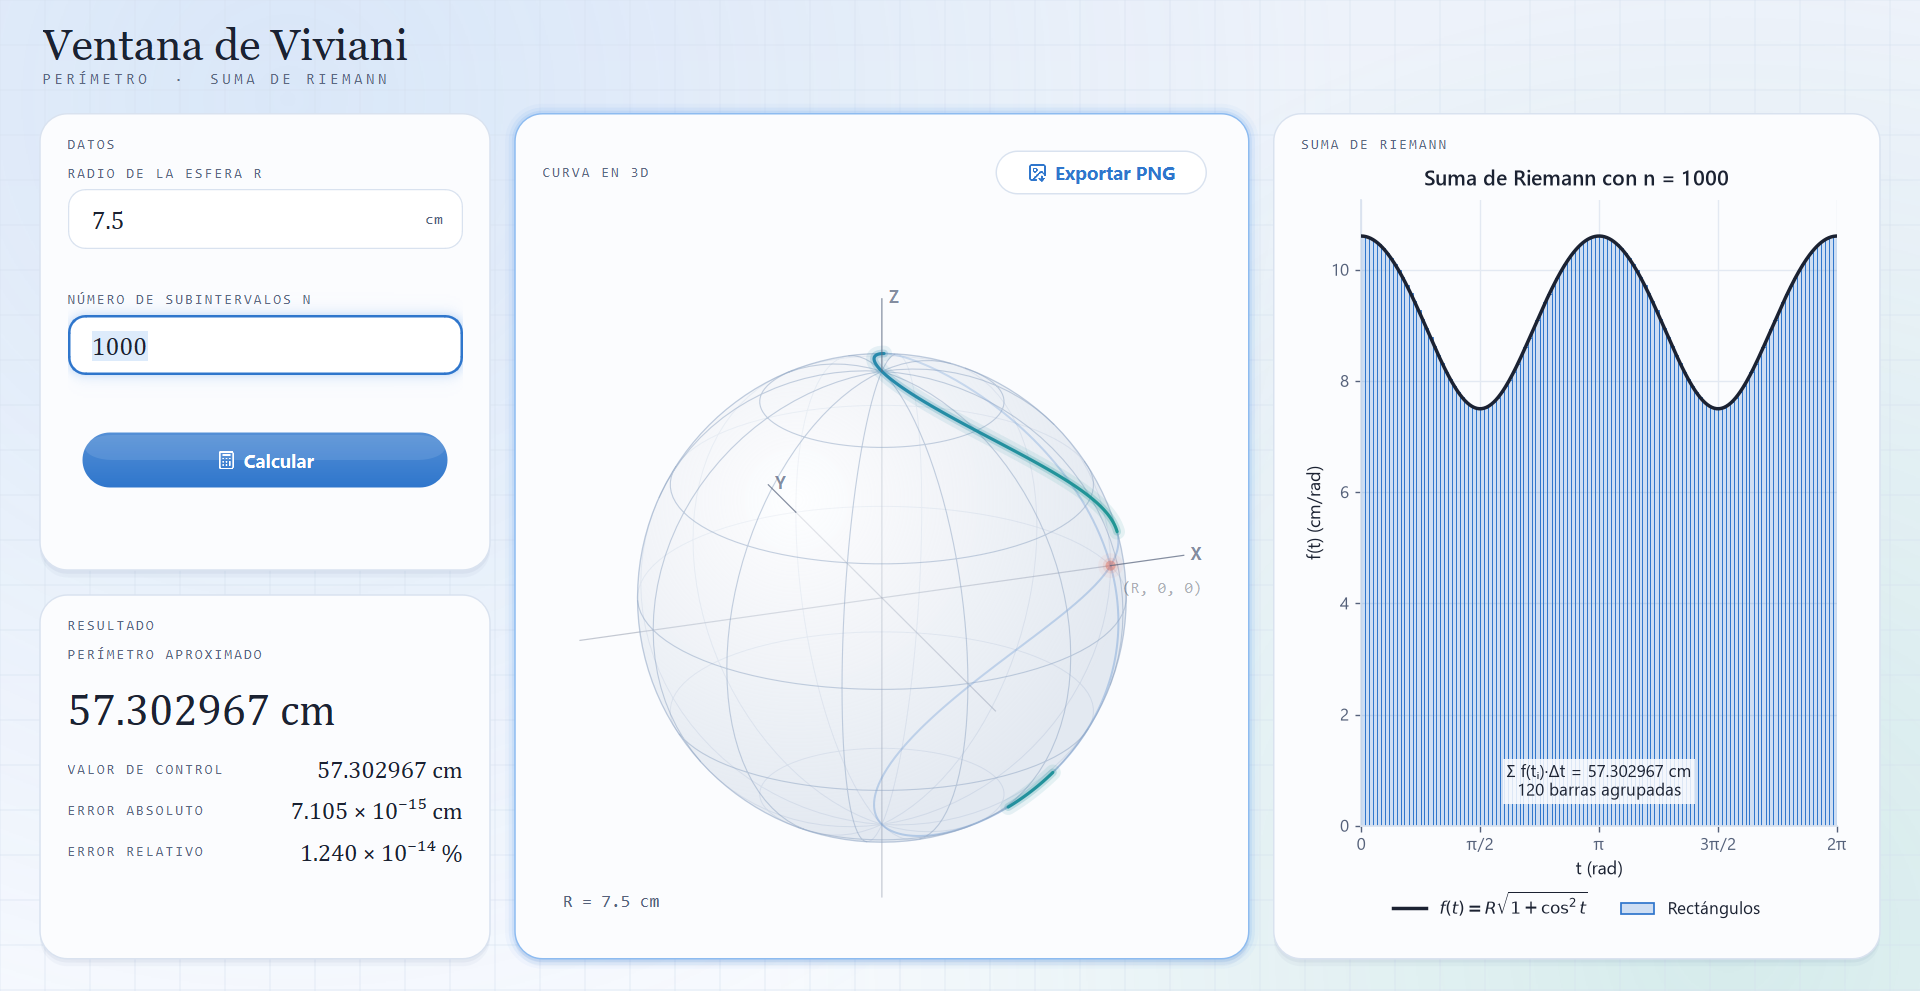
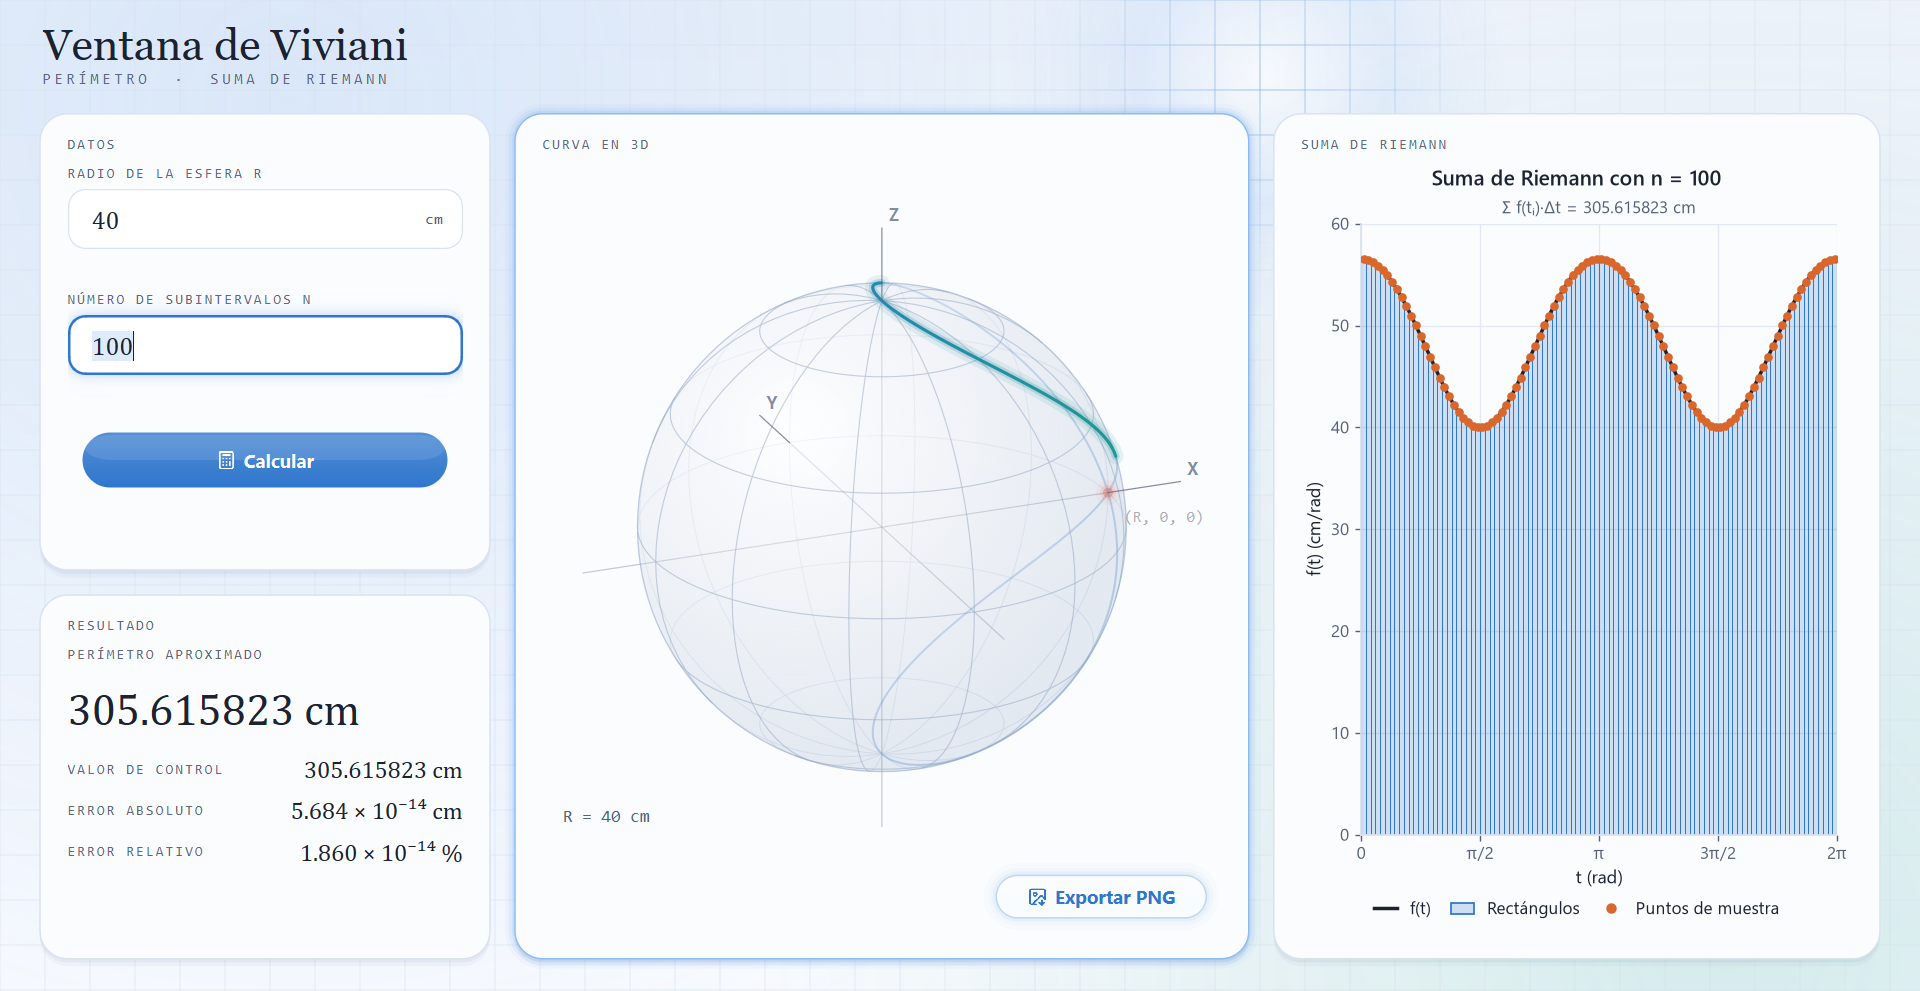
Alinea títulos de tarjetas, completa la leyenda de Riemann y agrega luz que sigue al cursor
- Exportar PNG pasa al pie de la tarjeta 3D
- La suma va como subtítulo de Riemann y la leyenda es más corta
- El fondo se ilumina alrededor del cursor (solo se repinta ese círculo)

diff --git a/src/viviani/ui/componentes.py b/src/viviani/ui/componentes.py
@@ -83,11 +83,30 @@ class FondoVentana(QWidget):
     guarda como imagen, así redibujarlo no cuesta casi nada."""
 
     LADO_REJILLA = 36
+    RADIO_LUZ = 200  # px: tamaño del círculo de luz que sigue al cursor
 
     def __init__(self, colores):
         super().__init__()
         self.colores = colores
         self._imagen = None
+        self._luz = None  # posición del cursor (None si está fuera)
+
+    def mover_luz(self, posicion):
+        """Mueve la luz al punto `posicion` (coordenadas de este widget).
+
+        Solo se repintan dos círculos: donde estaba la luz y donde está
+        ahora. Así el costo no depende del tamaño de la ventana.
+        """
+        if posicion is not None and not self.rect().contains(posicion):
+            posicion = None
+        anterior = self._luz
+        if posicion == anterior:
+            return
+        self._luz = posicion
+        for punto in (anterior, posicion):
+            if punto is not None:
+                r = self.RADIO_LUZ
+                self.update(punto.x() - r, punto.y() - r, 2 * r, 2 * r)
 
     def resizeEvent(self, evento):
         self._imagen = None  # cambió el tamaño: hay que volver a dibujarlo
@@ -98,6 +117,36 @@ class FondoVentana(QWidget):
             self._imagen = self._dibujar_fondo()
         pintor = QPainter(self)
         pintor.drawPixmap(evento.rect(), self._imagen, evento.rect())
+        if self._luz is not None:
+            self._dibujar_luz(pintor)
+
+    def _dibujar_luz(self, pintor):
+        """Un resplandor suave y la rejilla más marcada cerca del cursor."""
+        c = self.colores
+        centro = QPointF(self._luz)
+        r = self.RADIO_LUZ
+        pintor.setRenderHint(QPainter.RenderHint.Antialiasing)
+
+        resplandor = QRadialGradient(centro, r)
+        resplandor.setColorAt(0, con_alfa("#FFFFFF", 0.55))
+        resplandor.setColorAt(0.5, con_alfa(c["brillo"], 0.10))
+        resplandor.setColorAt(1, con_alfa(c["brillo"], 0.0))
+        pintor.setPen(Qt.PenStyle.NoPen)
+        pintor.setBrush(resplandor)
+        pintor.drawEllipse(centro, r, r)
+
+        # Las líneas de la rejilla se encienden: el color de la pluma es un
+        # degradado que se apaga con la distancia al cursor
+        lineas = QRadialGradient(centro, r * 0.8)
+        lineas.setColorAt(0, con_alfa(c["brillo"], 0.55))
+        lineas.setColorAt(1, con_alfa(c["brillo"], 0.0))
+        pintor.setPen(QPen(lineas, 1))
+        lado = self.LADO_REJILLA
+        x0, y0 = int(centro.x() - r), int(centro.y() - r)
+        for x in range(max(0, x0 - x0 % lado), int(centro.x() + r), lado):
+            pintor.drawLine(x, y0, x, y0 + 2 * r)
+        for y in range(max(0, y0 - y0 % lado), int(centro.y() + r), lado):
+            pintor.drawLine(x0, y, x0 + 2 * r, y)
 
     def _dibujar_fondo(self):
         c = self.colores

diff --git a/src/viviani/graficas/riemann.py b/src/viviani/graficas/riemann.py
@@ -26,7 +26,6 @@ DURACION_TOTAL_MS = 1500  # todos los rectángulos
 DURACION_BARRA_MS = 250  # lo que tarda en crecer cada rectángulo
 DURACION_FUNDIDO_MS = 150  # con "reducir movimiento"
 ALFA_RELLENO = 0.22
-FUNCION_TEXTO = r"$f(t) = R\sqrt{1 + \cos^2 t}$"
 
 
 def funcion(t, radio):
@@ -200,26 +199,9 @@ class GraficaRiemann(LienzoBase):
         if self.resultado.agrupado:
             # Con n > 120 cada barra agrupa varios subintervalos (ver calculo.py)
             barras = len(self.resultado.barras_altura)
-            texto += "\n" + f"{barras} barras agrupadas"
-        # Abajo al centro, dentro de los rectángulos: ahí nunca llega la curva
-        eje.text(
-            0.5,
-            0.04,
-            texto,
-            transform=eje.transAxes,
-            ha="center",
-            va="bottom",
-            multialignment="center",
-            fontsize=estilo.leyenda,
-            color=colores["texto"],
-            zorder=5,
-            bbox={
-                "facecolor": colores["superficie"],
-                "edgecolor": "none",
-                "alpha": 0.85,
-                "pad": 2,
-            },
-        )
+            texto += f"  ·  {barras} barras agrupadas"
+        # Subtítulo, debajo del título: así no tapa los rectángulos
+        eje.set_title(texto, fontsize=estilo.leyenda, color=colores["texto_sec"])
 
     def _poner_leyenda(self, fig, colores, estilo, con_puntos):
         azul = colores["serie_azul"]
@@ -227,7 +209,7 @@ class GraficaRiemann(LienzoBase):
             Line2D([], [], color=colores["texto"], linewidth=2 * estilo.lineas),
             Patch(facecolor=to_rgba(azul, ALFA_RELLENO), edgecolor=azul),
         ]
-        rotulos = [FUNCION_TEXTO, "Rectángulos"]
+        rotulos = ["f(t)", "Rectángulos"]
         if con_puntos:
             elementos.append(
                 Line2D(
@@ -247,5 +229,7 @@ class GraficaRiemann(LienzoBase):
             loc="outside lower center",
             ncols=len(elementos),
             frameon=False,
+            columnspacing=1.2,
+            handlelength=1.4,
         )
         poner_leyenda(leyenda, colores)

diff --git a/src/viviani/ui/ventana.py b/src/viviani/ui/ventana.py
@@ -166,8 +166,13 @@ class VentanaPrincipal(QMainWindow):
             self.colores, "Exportar PNG", "image-down", variante="secundario"
         )
         self.boton_exportar.setToolTip("Guardar la curva como imagen PNG (Ctrl+S)")
-        tarjeta.cabecera.addWidget(self.boton_exportar)
         tarjeta.contenido.addWidget(self.grafica_3d, 1)
+        # El botón va abajo: así el título queda a la misma altura que el de
+        # la tarjeta de Riemann
+        pie = QHBoxLayout()
+        pie.addStretch(1)
+        pie.addWidget(self.boton_exportar)
+        tarjeta.contenido.addLayout(pie)
         return tarjeta
 
     def _crear_tarjeta_riemann(self):
@@ -273,9 +278,12 @@ class VentanaPrincipal(QMainWindow):
             self._saltar_animaciones()
 
     def _revisar_cursor(self):
+        fondo = self.centralWidget()
         if not self.isActiveWindow():
+            fondo.mover_luz(None)
             return
         cursor = QCursor.pos()
+        fondo.mover_luz(fondo.mapFromGlobal(cursor))
         for boton in self._botones:
             boton.acercar(cursor)
 

diff --git a/src/viviani/graficas/curva3d.py b/src/viviani/graficas/curva3d.py
@@ -302,7 +302,7 @@ class GraficaCurva3D(QWidget):
         texto.setAlphaF(opacidad)
         pintor.setPen(texto)
         pintor.setFont(self._fuente(FAMILIAS_MONO, 0.024 * lado))
-        pintor.drawText(punto + QPointF(10 * grosor, 24 * grosor), "(R, 0, 0)")
+        pintor.drawText(punto + QPointF(14 * grosor, 26 * grosor), "(R, 0, 0)")
 
     def _pintar_ejes(self, pintor, a_pantalla, colores, grosor, lado, delante):
         """Ejes X, Y, Z. Primero la parte de adentro (bajo la esfera), al
@@ -320,7 +320,7 @@ class GraficaCurva3D(QWidget):
             pintor.drawLine(QPointF(h[0], v[0]), QPointF(h[1], v[1]))
             if delante:
                 pintor.setFont(self._fuente(FAMILIAS_MONO, 0.03 * lado, negrita=True))
-                rotulo = QPointF(h[1], v[1]) + QPointF(6 * grosor, 4 * grosor)
+                rotulo = QPointF(h[1], v[1]) + QPointF(6 * grosor, -6 * grosor)
                 pintor.drawText(rotulo, nombre)
 
     def _pintar_rotulos(self, pintor, ancho, alto, lado, colores, exportando):
